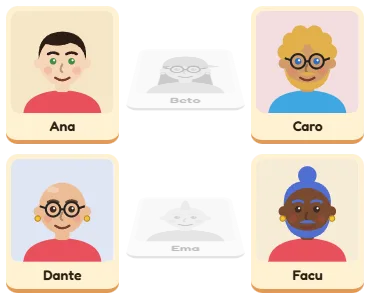
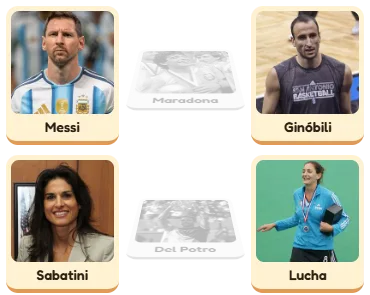
¿Quién soy?: solo mazos con fotos
- Se sacan los mazos dibujados (Dibujitos y las versiones dibujadas de famosos y futbolistas)
- El mazo por defecto pasa a ser Famosos argentinos
- Los mazos incluidos salen de fotos/creditos.js (sumar un mazo = sumar sus fotos ahí)
- Nueva foto de muestra para la tarjeta del juego

diff --git a/quien-soy/famosos.js b/quien-soy/famosos.js
@@ -1,105 +1,12 @@
-// Mazos incluidos de gente conocida. Hay dos versiones de cada uno:
-//  - con fotos de Wikimedia Commons (licencias libres; autor y licencia en creditos.html)
-//  - dibujados con el mismo estilo que los Dibujitos, con rasgos que ayudan a reconocerlos
-//    (pelo, barba, anteojos, camiseta...). También son el respaldo si a alguien le falta foto.
-import { cara } from './dibujitos.js';
+// Mazos incluidos: fotos de Wikimedia Commons con licencias libres, elegidas y encuadradas a mano.
+// Las fotos y sus créditos (autor, licencia, link) están en fotos/creditos.js; se ven en creditos.html.
 import { FOTOS } from './fotos/creditos.js';
 
-const PIEL = {clara: '#f6d5b8', media: '#ecbc94', trigena: '#d39a6a', morena: '#a8704a', oscura: '#7a4a2e'};
-const PELO = {negro: '#2b1d14', castano: '#5a3420', castClaro: '#8a5a32', rubio: '#e0b04a', colorado: '#c4511f',
-              canoso: '#c9ccd1', platino: '#ece6cf'};
-const OJOS = {marrones: '#3b2a20', celestes: '#2f6fc0', verdes: '#3e8e41'};
-const NEGRO = '#2b2b2b', BLANCO = '#f4f4f4';
-const ARG = {remera: '#75aadb', rayas: '#ffffff'};             // camiseta de la Selección
-const BRASIL = {remera: '#f4d03f'};
+export const TITULOS = {'famosos-ar': 'Famosos argentinos', futbolistas: 'Futbolistas', 'famosos-mundo': 'Famosos del mundo'};
 
-const carta = (nombre, fondo, t) => ({nombre, svg: cara({piel: PIEL.media, pelo: PELO.castano, estilo: 'corto', remera: NEGRO,
-  ojos: OJOS.marrones, fondo, anteojos: false, gorra: '', barba: '', aros: false, ...t})});
-
-// En famosos, el fondo dice el rubro: así se puede preguntar "¿es músico?"
-const DEPORTE = '#dcefe6', MUSICA = '#f3dde0', POLITICA = '#dfe6f5', CULTURA = '#f6e7c8';
-
-function famososAr() {
-  return {nombre: 'Famosos argentinos', cartas: [
-    carta('Messi', DEPORTE, {...ARG, barba: PELO.castano}),
-    carta('Maradona', DEPORTE, {...ARG, piel: PIEL.trigena, pelo: PELO.negro, estilo: 'rulos', aros: true}),
-    carta('Ginóbili', DEPORTE, {estilo: 'pelado', remera: NEGRO}),
-    carta('Sabatini', DEPORTE, {estilo: 'largo', remera: BLANCO}),
-    carta('Del Potro', DEPORTE, {piel: PIEL.clara, barba: PELO.castano, remera: '#3fa7e0'}),
-    carta('Lucha', DEPORTE, {...ARG, pelo: PELO.castClaro, estilo: 'rodete'}),
-    carta('Scaloni', DEPORTE, {piel: PIEL.clara, pelo: PELO.castClaro, barba: PELO.castClaro, remera: '#1f2a44'}),
-    carta('Charly', MUSICA, {piel: PIEL.clara, pelo: '#b08a4a', estilo: 'largo', anteojos: true, bigote: [BLANCO, PELO.negro]}),
-    carta('Cerati', MUSICA, {piel: PIEL.clara, pelo: PELO.negro, anteojos: true}),
-    carta('La Negra Sosa', MUSICA, {piel: PIEL.morena, pelo: PELO.negro, estilo: 'largo', remera: '#c0392b', aros: true}),
-    carta('Fito Páez', MUSICA, {piel: PIEL.clara, estilo: 'rulos', anteojos: true}),
-    carta('Tini', MUSICA, {piel: PIEL.clara, pelo: PELO.rubio, estilo: 'largo', remera: '#ff8fb1', aros: true}),
-    carta('Lali', MUSICA, {estilo: 'largo', remera: '#e8505b', aros: true}),
-    carta('Bizarrap', MUSICA, {piel: PIEL.clara, gorra: NEGRO, anteojos: true}),
-    carta('Duki', MUSICA, {piel: PIEL.clara, pelo: PELO.platino, remera: '#9b6dd6', aros: true}),
-    carta('Calamaro', MUSICA, {piel: PIEL.clara, estilo: 'largo', barba: PELO.castano, anteojos: true}),
-    carta('Evita', POLITICA, {piel: PIEL.clara, pelo: PELO.rubio, estilo: 'rodete', remera: BLANCO, aros: true}),
-    carta('Perón', POLITICA, {pelo: PELO.negro, remera: '#2f4f46'}),
-    carta('Alfonsín', POLITICA, {piel: PIEL.clara, pelo: PELO.canoso, bigote: PELO.canoso, remera: '#1f2a44'}),
-    carta('Cristina', POLITICA, {piel: PIEL.clara, pelo: '#3a2418', estilo: 'largo', aros: true}),
-    carta('Macri', POLITICA, {piel: PIEL.clara, pelo: '#b5a48a', ojos: OJOS.celestes, remera: '#75aadb'}),
-    carta('Milei', POLITICA, {piel: PIEL.clara, estilo: 'rulos', ojos: OJOS.celestes}),
-    carta('Darín', CULTURA, {piel: PIEL.clara, pelo: PELO.canoso, barba: PELO.canoso, ojos: OJOS.celestes, remera: '#3d5a80'}),
-    carta('Francella', CULTURA, {piel: PIEL.clara, estilo: 'pelado', remera: '#5cc480'}),
-    carta('Susana', CULTURA, {piel: PIEL.clara, pelo: PELO.rubio, estilo: 'largo', remera: '#ff8fb1', aros: true}),
-    carta('Mirtha', CULTURA, {piel: PIEL.clara, pelo: PELO.platino, estilo: 'rodete', remera: '#9b6dd6', aros: true}),
-    carta('El Papa', CULTURA, {piel: PIEL.clara, pelo: PELO.canoso, anteojos: true, remera: BLANCO}),
-    carta('Borges', CULTURA, {piel: PIEL.clara, pelo: PELO.canoso, remera: '#4a4a4a'}),
-  ]};
-}
-
-// En futbolistas, la camiseta es la de su selección
-const CANCHA = '#e3f1d9';
-function futbolistas() {
-  return {nombre: 'Futbolistas', cartas: [
-    carta('Messi', CANCHA, {...ARG, barba: PELO.castano}),
-    carta('Maradona', CANCHA, {...ARG, piel: PIEL.trigena, pelo: PELO.negro, estilo: 'rulos', aros: true}),
-    carta('Di María', CANCHA, {...ARG, pelo: PELO.negro}),
-    carta('Dibu', CANCHA, {piel: PIEL.clara, barba: PELO.castano, remera: '#5cc480'}),
-    carta('Julián', CANCHA, {...ARG}),
-    carta('Enzo', CANCHA, {...ARG, piel: PIEL.clara, barba: PELO.castano}),
-    carta('Lautaro', CANCHA, {...ARG, piel: PIEL.trigena, pelo: PELO.negro, barba: PELO.negro}),
-    carta('Mac Allister', CANCHA, {...ARG, piel: PIEL.clara, pelo: PELO.colorado}),
-    carta('De Paul', CANCHA, {...ARG, estilo: 'largo', barba: PELO.castano}),
-    carta('Otamendi', CANCHA, {...ARG, estilo: 'pelado', barba: PELO.negro}),
-    carta('Riquelme', CANCHA, {...ARG, piel: PIEL.trigena, pelo: PELO.negro}),
-    carta('Batistuta', CANCHA, {...ARG, pelo: '#b98a4a', estilo: 'largo'}),
-    carta('Tevez', CANCHA, {...ARG, piel: PIEL.trigena, pelo: PELO.negro}),
-    carta('Agüero', CANCHA, {...ARG, pelo: PELO.castano}),
-    carta('Palermo', CANCHA, {...ARG, piel: PIEL.clara, pelo: PELO.rubio, estilo: 'largo'}),
-    carta('Cristiano', CANCHA, {pelo: PELO.negro, remera: '#c8102e'}),
-    carta('Neymar', CANCHA, {...BRASIL, piel: PIEL.trigena, pelo: PELO.castClaro, aros: true}),
-    carta('Pelé', CANCHA, {...BRASIL, piel: PIEL.oscura, pelo: PELO.negro}),
-    carta('Ronaldinho', CANCHA, {...BRASIL, piel: PIEL.morena, pelo: PELO.negro, estilo: 'largo', vincha: BLANCO}),
-    carta('Mbappé', CANCHA, {piel: PIEL.oscura, estilo: 'pelado', remera: '#1f3a93'}),
-    carta('Haaland', CANCHA, {piel: PIEL.clara, pelo: PELO.rubio, estilo: 'rodete', ojos: OJOS.celestes, remera: '#6cabdd'}),
-    carta('Zidane', CANCHA, {piel: PIEL.clara, estilo: 'pelado', remera: '#1f3a93'}),
-    carta('Modrić', CANCHA, {piel: PIEL.clara, pelo: PELO.castClaro, estilo: 'largo', remera: BLANCO, rayas: '#d52b1e'}),
-    carta('Vinícius', CANCHA, {piel: PIEL.oscura, pelo: PELO.negro, estilo: 'rulos', remera: BLANCO}),
-    carta('Lamine', CANCHA, {piel: PIEL.morena, pelo: PELO.negro, estilo: 'rulos', remera: '#c60b1e'}),
-    carta('Salah', CANCHA, {piel: PIEL.trigena, pelo: PELO.negro, estilo: 'rulos', barba: PELO.negro, remera: '#c8102e'}),
-    carta('Lewa', CANCHA, {piel: PIEL.clara, remera: BLANCO}),
-    carta('Kane', CANCHA, {piel: PIEL.clara, pelo: PELO.castClaro, ojos: OJOS.celestes, remera: BLANCO}),
-  ]};
-}
-
-// Versión con fotos: cada carta usa su foto de Wikimedia Commons si hay (ver fotos/creditos.js
-// y creditos.html); si no, queda el dibujito.
-function conFotos(id, crear, nombre) {
-  return () => {
-    const m = crear(), fotos = FOTOS[id] || {};
-    return {nombre, cartas: m.cartas.map(c => (fotos[c.nombre] ? {nombre: c.nombre, img: new URL(fotos[c.nombre].img, import.meta.url).href} : c))};
-  };
-}
-
-// Mazos que vienen con el juego (no están en Firebase). La clave es el id del mazo.
-export const MAZOS_INCLUIDOS = {
-  'famosos-ar': {nombre: 'Famosos argentinos', cantidad: 28, crear: conFotos('famosos-ar', famososAr, 'Famosos argentinos')},
-  futbolistas: {nombre: 'Futbolistas', cantidad: 28, crear: conFotos('futbolistas', futbolistas, 'Futbolistas')},
-  'famosos-ar-dib': {nombre: 'Famosos argentinos (dibujados)', cantidad: 28, crear: famososAr},
-  'futbolistas-dib': {nombre: 'Futbolistas (dibujados)', cantidad: 28, crear: futbolistas},
-};
+// La clave es el id del mazo; el primero es el que viene elegido por defecto.
+export const MAZOS_INCLUIDOS = Object.fromEntries(Object.entries(FOTOS).map(([id, cartas]) => {
+  const nombre = TITULOS[id] || id;
+  return [id, {nombre, cantidad: Object.keys(cartas).length,
+    crear: () => ({nombre, cartas: Object.entries(cartas).map(([n, c]) => ({nombre: n, img: new URL(c.img, import.meta.url).href}))})}];
+}));

diff --git a/quien-soy/juego.js b/quien-soy/juego.js
@@ -1,12 +1,10 @@
 // Pantalla de ¿Quién soy?: panel según la fase, grilla de cartas e historial de preguntas.
 import { conectar, lista, esc } from '../shared/salas.js';
-import { dibujitos } from './dibujitos.js';
 import { MAZOS_INCLUIDOS } from './famosos.js';
 
 const cache = {};
 async function cargarMazo(id) {
   if (cache[id]) return cache[id];
-  if (id === 'dibujitos') return (cache[id] = dibujitos());
   if (MAZOS_INCLUIDOS[id]) return (cache[id] = MAZOS_INCLUIDOS[id].crear());
   const fb = await conectar();
   const v = (await fb.get(fb.ref(fb.db, 'mazos/cartas/' + id))).val();
@@ -14,7 +12,7 @@ async function cargarMazo(id) {
   // De Firebase solo se aceptan nombre + imagen (nada de SVG)
   return (cache[id] = {nombre: v.nombre, cartas: lista(v.cartas).map(c => ({nombre: String(c.nombre || '?'), img: String(c.img || '')}))});
 }
-const imagen = c => (c.svg ? c.svg : `<img src="${esc(c.img)}" alt="">`);
+const imagen = c => `<img src="${esc(c.img)}" alt="">`;
 
 // Chat de sala para charlar (y chicanear) mientras juegan online
 export const chat = true;
@@ -31,8 +29,7 @@ export function sonido(a, e, ctx) {
 // ---------- Menú: elegir mazo ----------
 export function menu(el) {
   el.innerHTML = `<div class="row"><label for="mazo">Mazo</label>
-    <select id="mazo"><option value="dibujitos" data-n="24" data-nombre="Dibujitos">Dibujitos (24)</option>
-      ${Object.entries(MAZOS_INCLUIDOS).map(([id, m]) =>
+    <select id="mazo">${Object.entries(MAZOS_INCLUIDOS).map(([id, m]) =>
         `<option value="${id}" data-n="${m.cantidad}" data-nombre="${esc(m.nombre)}">${esc(m.nombre)} (${m.cantidad})</option>`).join('')}</select>
     <a href="${new URL('mazos.html', import.meta.url).href}">Crear o editar mazos</a>
     <a href="${new URL('creditos.html', import.meta.url).href}">📸 Créditos de las fotos</a></div>`;
@@ -47,7 +44,7 @@ export function menu(el) {
         sel.append(o);
       }
     })
-    .catch(() => {});  // sin Firebase: solo dibujitos
+    .catch(() => {});  // sin Firebase: solo los mazos incluidos
 }
 export function opciones() {
   const o = document.getElementById('mazo').selectedOptions[0];
@@ -100,7 +97,7 @@ function armarGrilla() {
 
 export function dibujar(ctx) {
   const e = ctx.estado, yo = ctx.miAsiento, otro = 1 - yo, puedo = ctx.puedoJugar();
-  const id = (e.opciones && e.opciones.mazo) || 'dibujitos';
+  const id = (e.opciones && e.opciones.mazo) || 'famosos-ar';
   if (mazoId !== id) {
     mazoId = id; mazo = null; grilla.innerHTML = ''; clave = '';
     cargarMazo(id).then(m => { if (mazoId !== id) return; mazo = m; armarGrilla(); clave = ''; ctx.refrescar(); })

diff --git a/quien-soy/creditos.html b/quien-soy/creditos.html
@@ -20,15 +20,15 @@
 <main>
   <div class="barra"><a class="volver" href="./">← Volver al juego</a></div>
   <h1>📸 Créditos de las fotos</h1>
-  <p class="sub">Las fotos de los mazos <b>Famosos argentinos</b> y <b>Futbolistas</b> son de
+  <p class="sub">Las fotos de los mazos que vienen con el juego son de
     <a href="https://commons.wikimedia.org/">Wikimedia Commons</a>, con licencias libres. Están recortadas y achicadas,
     y cada una mantiene la licencia de la original. Tocá la licencia o "ver original" para más detalles.</p>
   <div id="lista"></div>
 </main>
 <script type="module">
 import { FOTOS } from './fotos/creditos.js';
+import { TITULOS } from './famosos.js';
 const esc = s => String(s).replace(/[&<>"]/g, c => ({'&': '&amp;', '<': '&lt;', '>': '&gt;', '"': '&quot;'}[c]));
-const TITULOS = {'famosos-ar': 'Famosos argentinos', futbolistas: 'Futbolistas'};
 document.getElementById('lista').innerHTML = Object.entries(FOTOS).map(([mazo, cartas]) =>
   `<section><h2>${TITULOS[mazo] || mazo}</h2><div class="creditos">${Object.entries(cartas).map(([nombre, c]) =>
     `<div class="cred"><img src="${esc(c.img)}" alt="${esc(nombre)}" loading="lazy"><div><b>${esc(nombre)}</b>

diff --git a/quien-soy/reglas.js b/quien-soy/reglas.js
@@ -16,7 +16,7 @@ export const info = {
   ],
 };
 
-const POR_DEFECTO = {mazo: 'dibujitos', nombre: 'Dibujitos', cantidad: 24};
+const POR_DEFECTO = {mazo: 'famosos-ar', nombre: 'Famosos argentinos', cantidad: 28};
 const azar = k => Math.floor(Math.random() * k);
 
 // fase: 'pregunta' (turno pregunta) -> 'respuesta' (turno pasa al otro, que responde)

diff --git a/README.md b/README.md
@@ -21,7 +21,7 @@ tateti-cuadrado/      Ta-te-ti² (2)
 lameloide/            Hex (2)
 acorazado/            Hundiste mi acorazado: batalla naval (2, solo online)
 ahorcado/             Ahorcado de a dos: cada uno elige la palabra del otro (2, solo online)
-quien-soy/            ¿Quién soy? + editor de mazos (mazos.html) (mazos incluidos: dibujitos, famosos argentinos y futbolistas, con fotos de Wikimedia Commons en quien-soy/fotos/ y sus créditos en quien-soy/creditos.html)
+quien-soy/            ¿Quién soy? + editor de mazos (mazos.html) (mazos incluidos con fotos de Wikimedia Commons en quien-soy/fotos/ y sus créditos en quien-soy/creditos.html)
 ta-te-ti/             juego mínimo, sirve de plantilla
 ```
 
